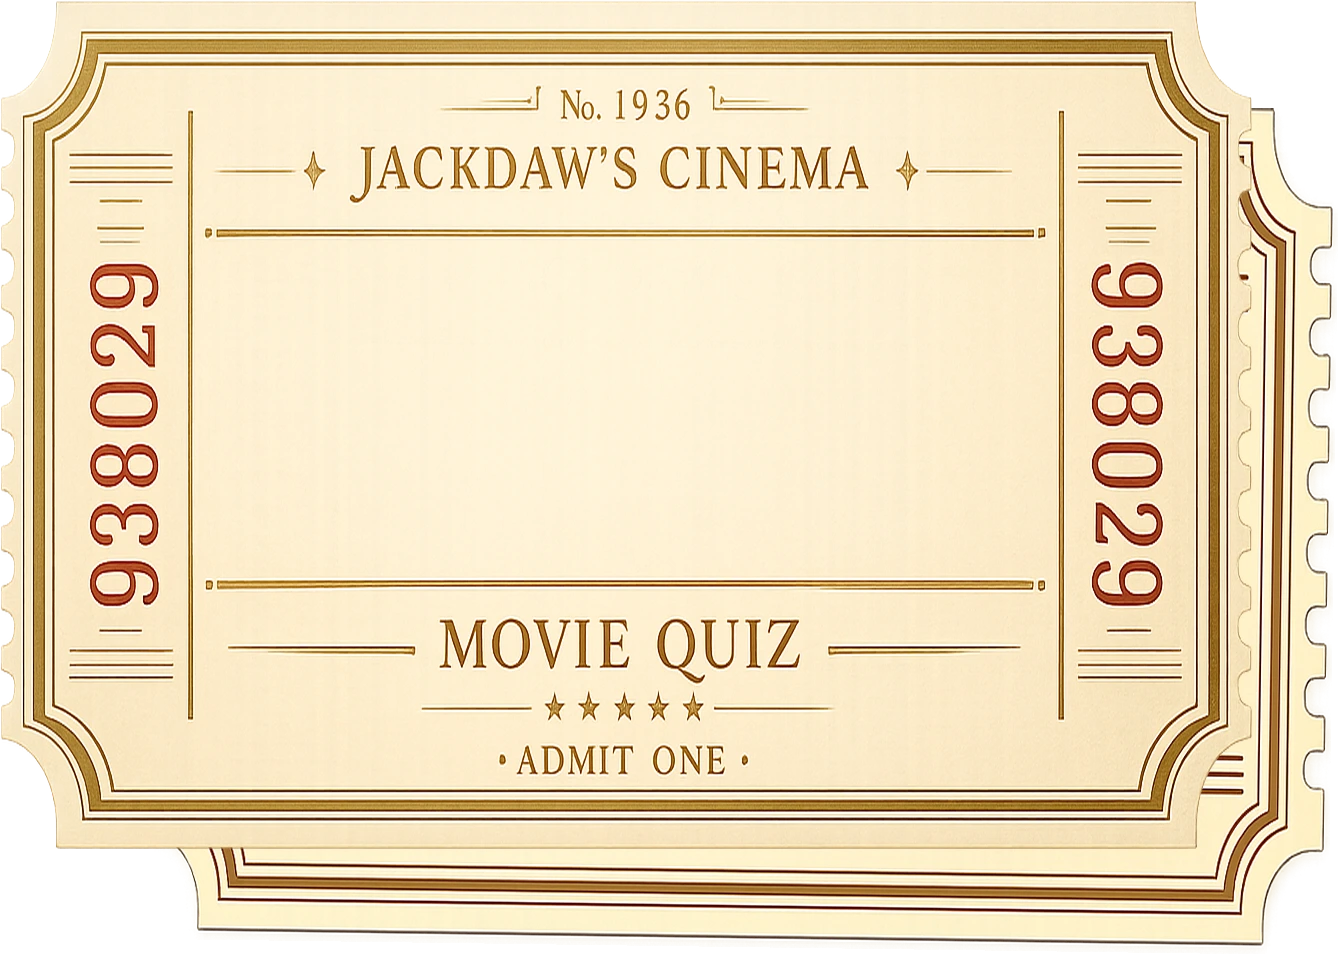
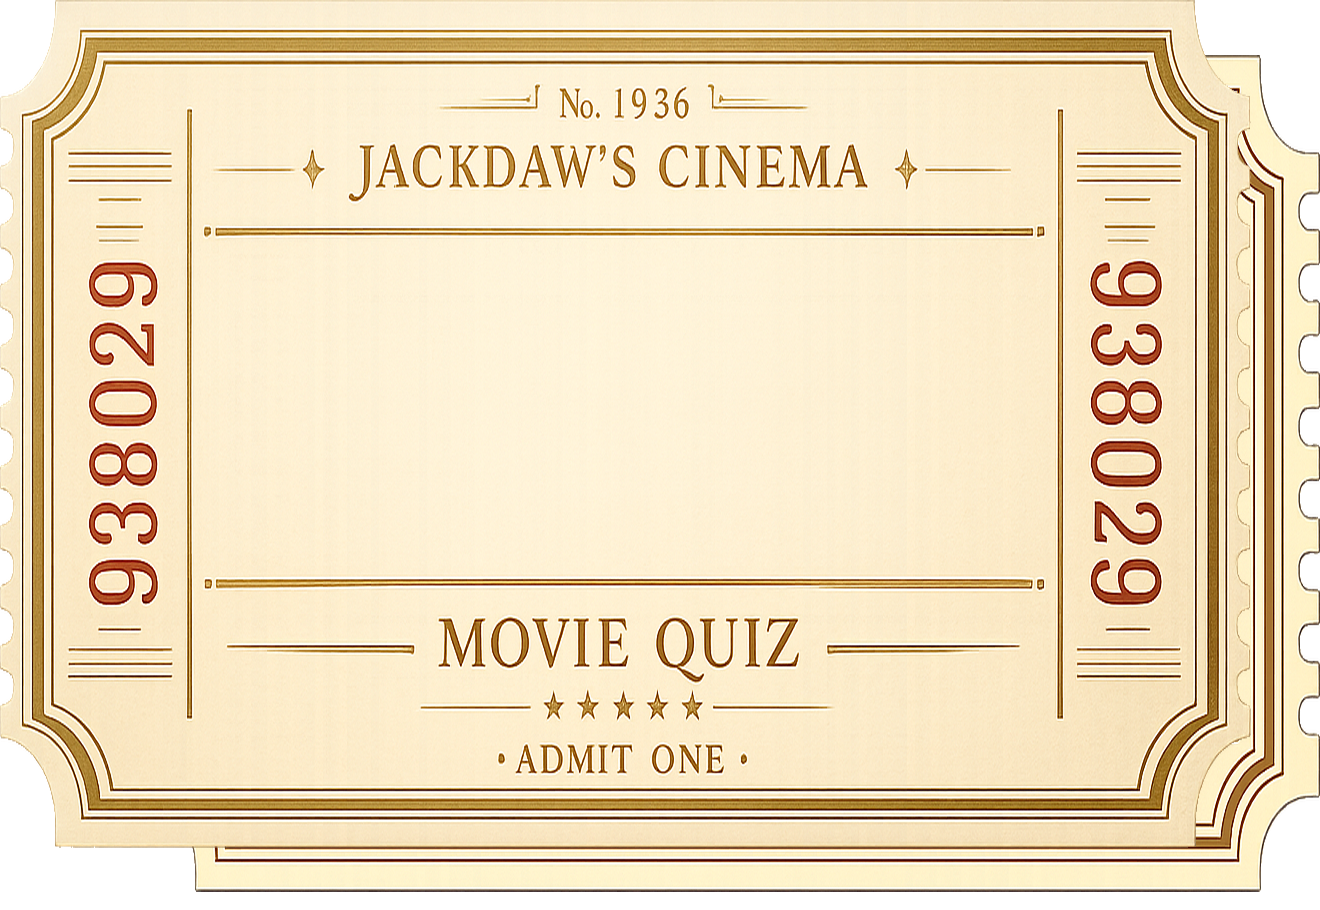
Add files via upload

diff --git a/index.html b/index.html
@@ -26,7 +26,7 @@
 <link rel="stylesheet" href="css/noir-master.css?v=1.2" media="print" onload="this.media='all'">
 <link rel="stylesheet" href="css/exterior-scene.css?v=6.5">
 <link rel="stylesheet" href="css/exterior-performance.css?v=6.9">
-<link rel="stylesheet" href="css/ticket-login.css?v=5.0">
+<link rel="stylesheet" href="css/ticket-login.css?v=6.0">
 <link rel="preconnect" href="https://assets.mixkit.co" crossorigin>
 <link rel="dns-prefetch" href="//assets.mixkit.co">
 <link rel="preconnect" href="https://cdn.jsdelivr.net" crossorigin>
@@ -206,6 +206,6 @@ Máte tři životy. Patnáct správných odpovědí znamená vítězství.
 <script id="mq-v33-fantasy-dragon-runtime-fix-script" src="js/41-fantasy-runtime.js"></script>
 <script id="mq-v34-fantasy-rebuild-script" src="js/42-fantasy-rebuild.js"></script>
 <script id="mq-exterior-scene-script" src="js/26-exterior-scene.js?v=6.10"></script>
-<script id="mq-ticket-login-ui-script" src="js/27-ticket-login-ui.js?v=5.0"></script>
+<script id="mq-ticket-login-ui-script" src="js/27-ticket-login-ui.js?v=6.0"></script>
 </body>
 </html>

diff --git a/css/ticket-login.css b/css/ticket-login.css
@@ -1,4 +1,4 @@
-/* Movie Quiz – Ticket login v5.0
+/* Movie Quiz – Ticket login v6.0
    Taller 150% ticket stack. Desk/backdrop remains an independent asset.
    The functional Supabase profile DOM stays hidden; this facade mirrors it. */
 
@@ -23,7 +23,7 @@ body.mq-ticket-open{overflow:hidden!important}
 .mq-ticket-scene{
   position:relative;z-index:2;
   width:min(1180px,95vw,calc(92vh * 1.4017));
-  aspect-ratio:1340/956;
+  aspect-ratio:1320/910;
   filter:drop-shadow(0 24px 30px rgba(0,0,0,.34));
   overflow:visible!important;
 }
@@ -49,7 +49,7 @@ body.mq-ticket-open .mq-ticket-profile-mount #mqProfileShell *{animation:none!im
 /* Maximum usable area: from the underline below JACKDAW'S CINEMA to the lower printed line. */
 .mq-ticket-facade{
   position:absolute;z-index:7;
-  left:15.5%;right:22.0%;top:23.9%;height:39.0%;
+  left:15.4%;right:21.0%;top:24.8%;height:39.5%;
   color:#5a3218;
   font-family:'Cormorant Garamond',Georgia,'Times New Roman',serif;
   text-shadow:0 1px rgba(255,249,226,.62);

diff --git a/js/27-ticket-login-ui.js b/js/27-ticket-login-ui.js
@@ -1,6 +1,6 @@
 (()=>{
   'use strict';
-  const VERSION='ticket-login-v5.0-tall-facade';
+  const VERSION='ticket-login-v6.0-tall-facade';
   const layer=document.getElementById('mqTicketLayer');
   const mount=document.getElementById('mqTicketProfileMount');
   const shell=document.getElementById('mqProfileShell');
